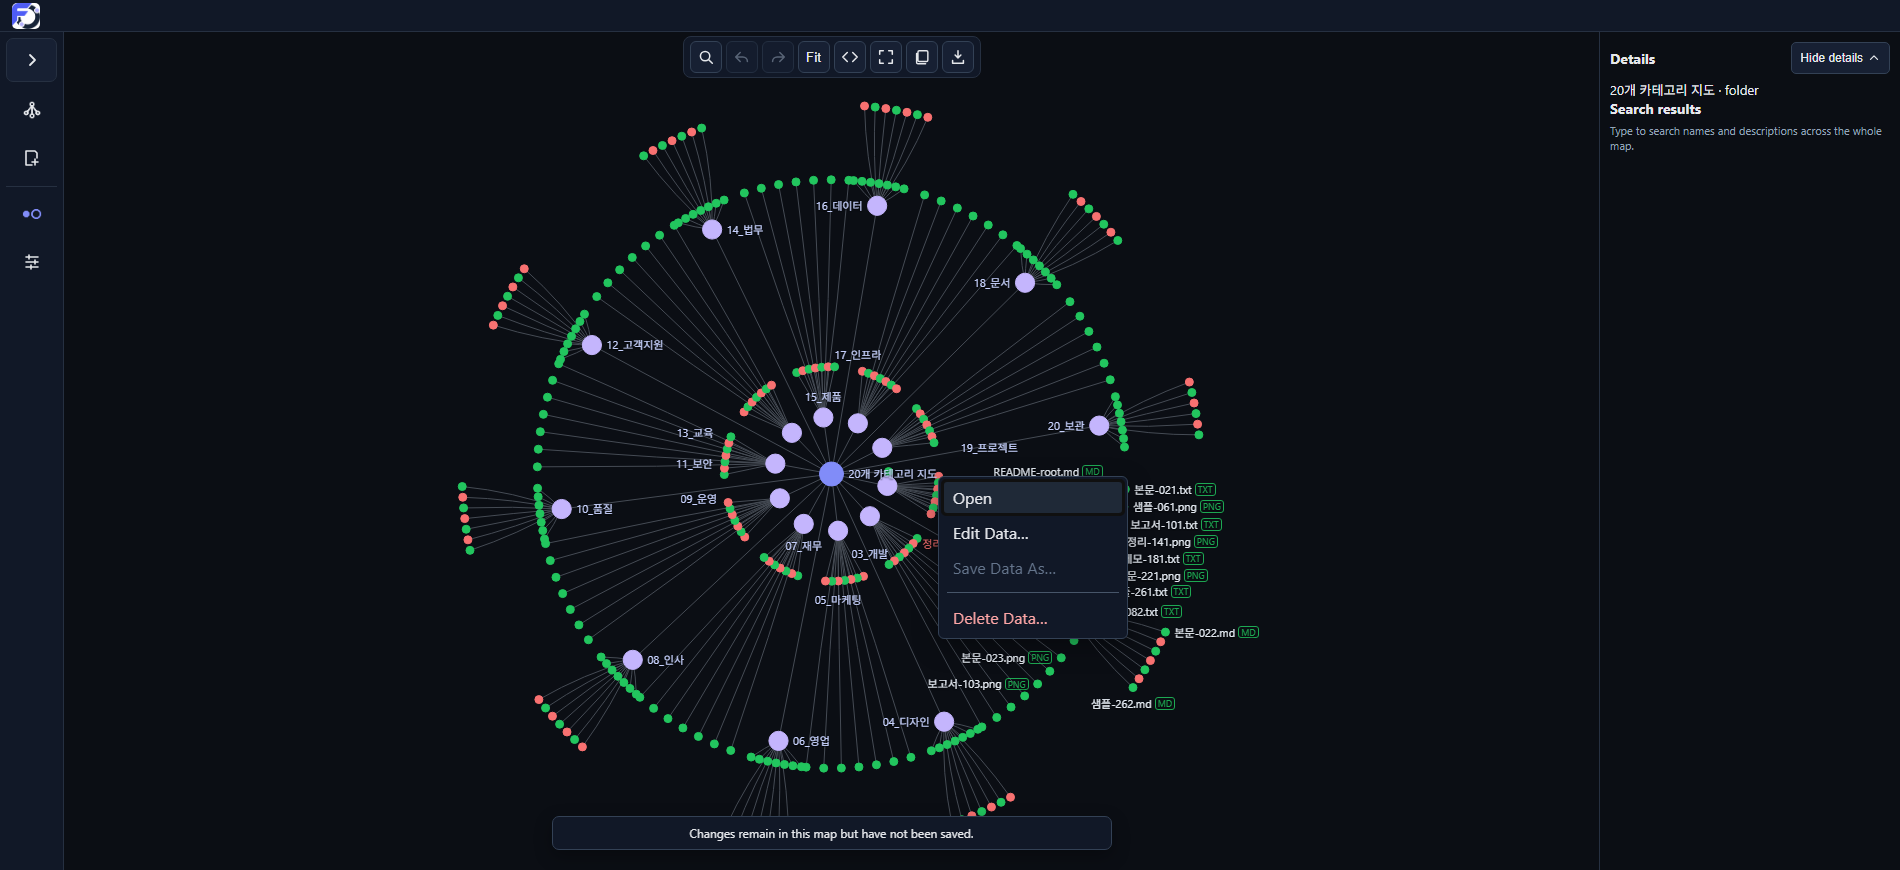
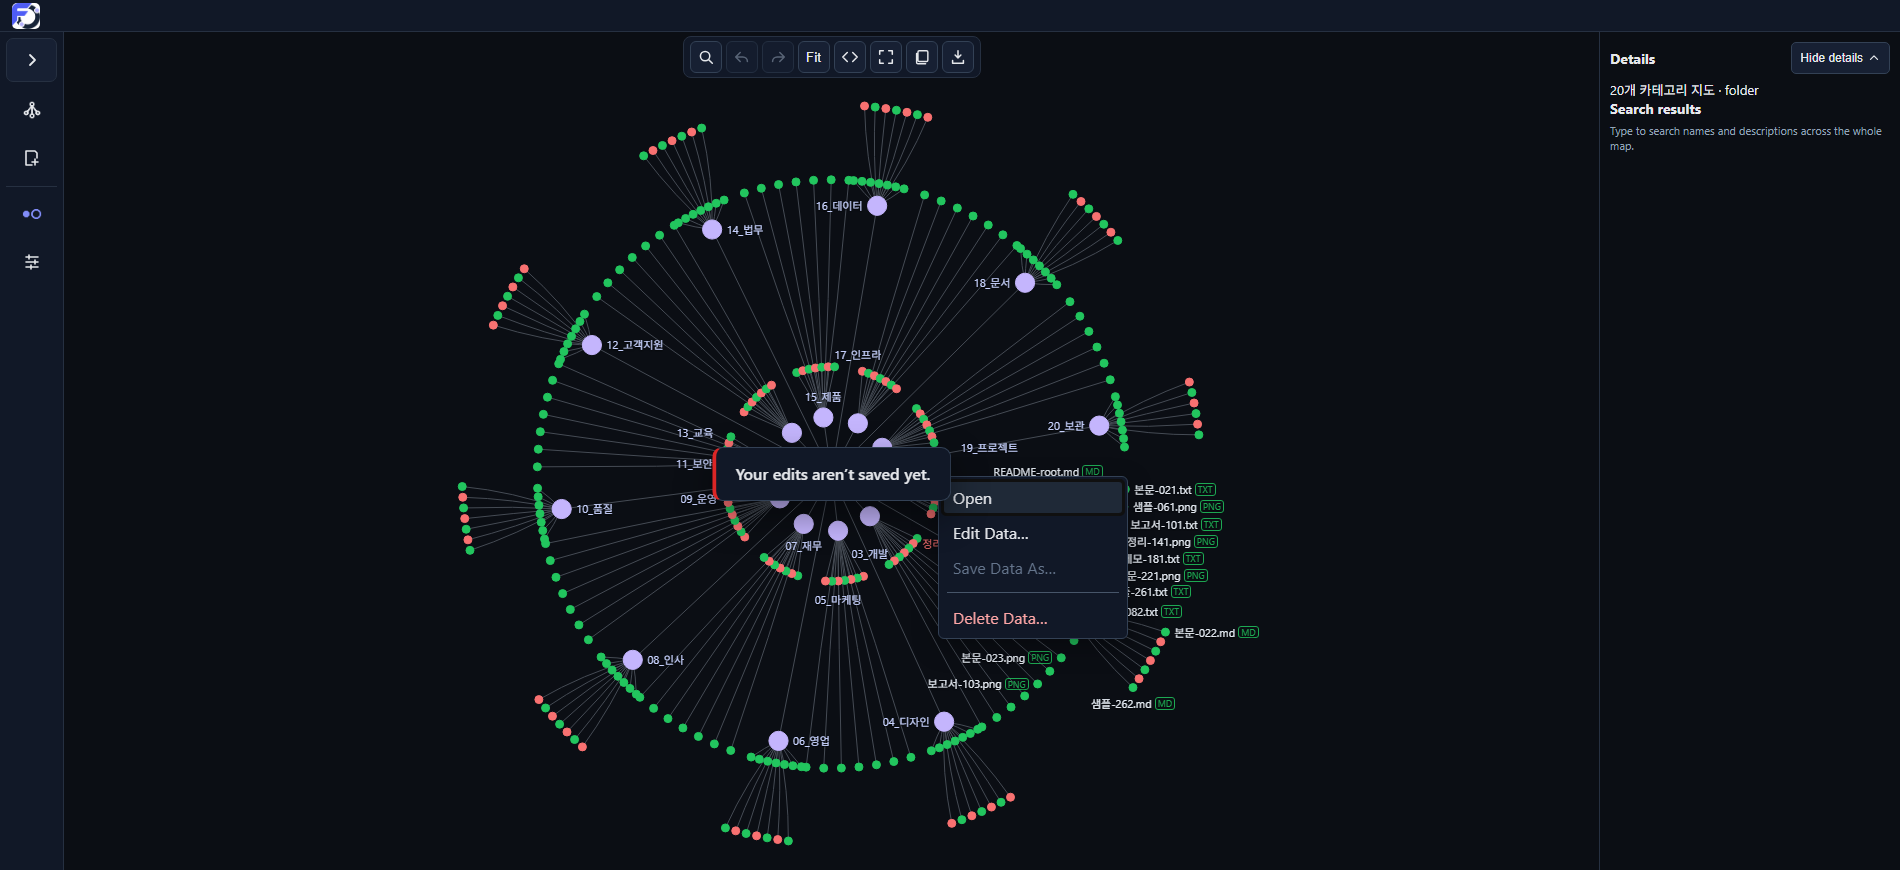
Remove Open Folder from folder context menus
Folder nodes no longer offer Open Folder in either the root or descendant context menus; clicking a folder node still moves focus. File nodes keep Open for previews. Updated the rendered context-menu check to assert the action is absent from both folder menus, that a regular folder click focuses the folder, and that a file still offers Open.

Changed region(s): [[0.3726, 0.4966, 0.4968, 0.6207], [0.3726, 0.931, 0.5279, 0.9931]]

diff --git a/tests/harness/m5-exploration/editor-context-menu.js b/tests/harness/m5-exploration/editor-context-menu.js
@@ -38,7 +38,6 @@ export function createEditorContextMenu({
     return button;
   };
 
-  const openFolder = item('open-folder', 'Open Folder');
   const openData = item('open-data', 'Open');
   const editFolder = item('edit-folder', 'Edit Folder…');
   const renameMap = item('rename-map', 'Rename Map…');
@@ -69,7 +68,7 @@ export function createEditorContextMenu({
 
   const folderSeparator = separator();
   const fileSeparator = separator();
-  for (const child of [openFolder, editFolder, renameMap, editDescription, addButton, exportFolder, folderSeparator, deleteFolder, openData, editData, saveData, fileSeparator, deleteData]) menu.appendChild(child);
+  for (const child of [editFolder, renameMap, editDescription, addButton, exportFolder, folderSeparator, deleteFolder, openData, editData, saveData, fileSeparator, deleteData]) menu.appendChild(child);
   for (const child of [addFolder, addData, separator(), uploadFiles, uploadFolder]) submenu.appendChild(child);
 
   const deleteNote = document.createElement('p');
@@ -92,8 +91,8 @@ export function createEditorContextMenu({
   function actionsFor(targetValue) {
     if (targetValue?.hitKind === 'file') return ['open-data', 'edit-data', 'save-data-as', 'delete-data'];
     return targetValue?.isRoot
-      ? ['open-folder', 'rename-map', 'edit-description', 'add', 'export-folder', 'delete-folder']
-      : ['open-folder', 'edit-folder', 'add', 'export-folder', 'delete-folder'];
+      ? ['rename-map', 'edit-description', 'add', 'export-folder', 'delete-folder']
+      : ['edit-folder', 'add', 'export-folder', 'delete-folder'];
   }
   function submenuActions() { return ['add-folder', 'add-data', 'upload-files', 'upload-folder']; }
   function enabledMainItems() {
@@ -104,7 +103,7 @@ export function createEditorContextMenu({
   }
   function renderActions(targetValue) {
     const folder = targetValue.hitKind !== 'file';
-    openFolder.hidden = !folder; openData.hidden = folder;
+    openData.hidden = folder;
     editFolder.hidden = !folder || Boolean(targetValue.isRoot);
     renameMap.hidden = !folder || !targetValue.isRoot;
     editDescription.hidden = !folder || !targetValue.isRoot;
@@ -304,7 +303,7 @@ export function createEditorContextMenu({
     addButton.addEventListener('pointerenter', () => { if (!submenuOpen) openSubmenu({ focus: false }); }, { signal });
     addButton.addEventListener('pointerleave', () => scheduleHoverClose(), { signal });
     const first = actionsFor(nextTarget).map((action) => buttons.get(action)).find((button) => button && !button.hidden && !button.disabled);
-    (first || openFolder || openData).focus();
+    (first || openData).focus();
     return true;
   }
 
@@ -330,7 +329,6 @@ export function createEditorContextMenu({
       if (submenu.parentNode) submenu.parentNode.removeChild(submenu);
     },
     get element() { return menu; },
-    get item() { return openFolder; },
     get actions() { return buttons; }
   };
 }
